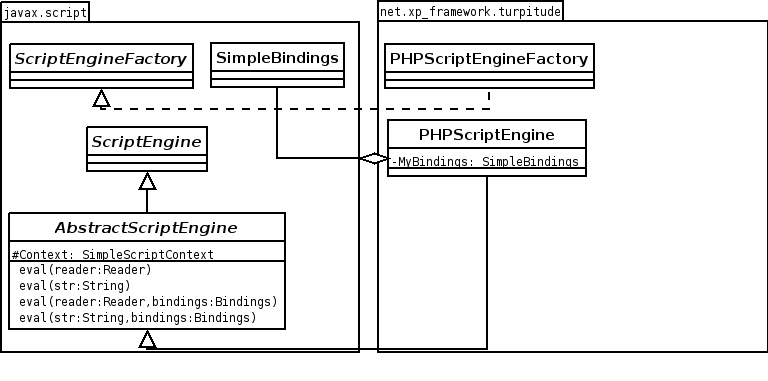
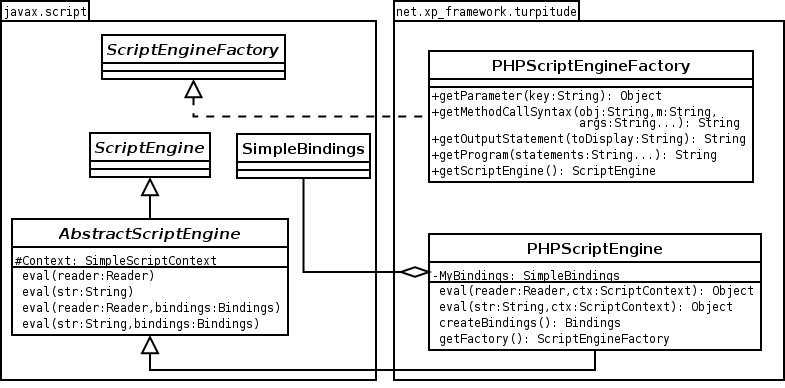
-- minor changes
git-svn-id: svn+ssh://svn.xp-framework.net/home/svn/xpforge/trunk/experiments@7885 d2cacbed-c0f6-0310-851a-9dad52fc623a

Changed region(s): [[0.0, 0.0, 1.0, 1.0]]

diff --git a/people/bayer/thesis/chap1/chap1.tex b/people/bayer/thesis/chap1/chap1.tex
@@ -68,6 +68,9 @@ aus Java heraus anzusprechen.
 Um PHP in anderen Umgebungen einzubetten bietet es dem Benutzer die M"oglichkeit als dynamisch ladbare
 Bilbliothek (.dll unter Windows, .so unter unixoiden Betriebssytemen) kompiliert zu werden, Java wiederum
 erlaubt das Einbinden solcher Bibliotheken zur Laufzeit mittels des JNI (siehe \ref{sec:intro:stand:JNI}).
+Um auf den PHP-Interpreter derart zugreiffen zu k"onnen muss eine sogenannte \emph{SAPI} implementiert
+werden. SAPI steht in diesem Kontext f"ur "'Server Application Programming Interface"' und ist ein PHP-interner
+Begriff. 
 Der naive Ansatz PHP innerhalb von Java auszuf"uhren w"are nun das simple Einbinden dieser Bibliothek und
 der Zugriff auf Selbige "uber JNI gewesen. Hierzu w"are es aber n"otig gewesen selbst eine Schnittstelle 
 zu entwickeln die diesen Zugriff formalisiert, allerdings existierten schon zwei unabh"ngig voneinander entwickelte
@@ -263,6 +266,7 @@ nativen Code "ubersetzte Programm mittels JNI anspricht. TODO: Arschlochsatz
 Um allerdings JSR 223 "uberhaupt nutzen zu k"onnen m"ussen die Klassen aus javax.script, vor allem der ScriptEngineManager, 
 im Java-Classpath liegen. Hierzu kann entweder eine Java-Runtime der Version 6, oder aber eine eigene Implementation dieser
 Klassen genutzt werden.
+Die im folgenden beschriebene JSR 223 Implementation tr"agt den Namen "'Turpitude"'.
 
 \subsection{Java}
 \label{sec:chap1:design:java}
@@ -277,7 +281,11 @@ Die ScriptEngineFactory-Implementation hei\ss t \emph{PHPScriptEngineFactory} un
 \emph{ScriptEngineFactory} aus \emph{javax.script}. Im Gegensatz dazu implementiert die Klasse \emph{PHPScriptEngine} nicht
 direkt das Interface \emph{ScriptEngine}, sondern erbt von der abstrakten Klasse \emph{AbstractScriptEngine}, welche f"ur
 viele Varianten der \emph{eval()}-Methode schon eine Realisierung, sowie mit der Klasse \emph{SimpleScriptContext} schon einen 
-\emph{ScriptContext} mitbringt. Die Abbildung \ref{fig:jsr223impl} zeigt die beteiligten Klassen und ihre Abh"anigkeiten untereinander.
+\emph{ScriptContext} mitbringt. Um den "ubergebenen Scriptcode tats"achlich auszu"fuhren muss dieser an den mittels der Java-Methode
+\emph{System.loadLibary()} geladenen nativen Teil der Implementation weitergegeben werden. Die Kommunikation mit diesem
+nativen Teil findet mittels der JNI-Methoden TODO: Methoden auflisten.
+Die Abbildung \ref{fig:jsr223impl} zeigt die beteiligten Klassen und ihre Abh"anigkeiten untereinander,
+zusammen mit einigen wichtigen Methoden und Attributen. 
 
 \begin{figure}[h]
 \includegraphics[width=\textwidth]{chap1/img/turpitude.png}
@@ -285,9 +293,18 @@ viele Varianten der \emph{eval()}-Methode schon eine Realisierung, sowie mit der
 \label{fig:jsr223impl}
 \end{figure}
 
-
 \subsection{Native}
 \label{sec:chap1:design:native}
+
+Der native Teil der Implementation teilt sich wiederum auf in JNI-Methoden, f"ur welche die Headerdateien automatisch aus
+dem Java-Quelltext der PHPScriptEngine generiert werden k"onnen, und in die Implementation einer SAPI. Hierzu muss im
+Wesentlichen ein sogenanntes \emph{sapi\_module\_struct} angelegt und bef"ullt werden, welches neben einigen Strings
+haupts"achlich Funktionspointer auf R"uckruffunktionen enth"alt, welche vom PHP-Interpreter aufgerufen werden. Da es
+kaum m"oglich ist dieses Konstrukt sinnvoll in eine objektorientierte Architektur einzuf"ugen, wird auf eine solche
+vollst"andig verzichtet. Das sapi\_module\_struct und die dazugeh"origen Funktionen werden in traditioneller,
+prozeduraler Art und Weise implementiert.
+TODO: JNI Methoden
+TODO: sapi methoden
 
 
 \section{Implementation}

diff --git a/people/bayer/turpitude/src/java/net/xp_framework/turpitude/PHPScriptEngine.java b/people/bayer/turpitude/src/java/net/xp_framework/turpitude/PHPScriptEngine.java
@@ -79,9 +79,20 @@ public class PHPScriptEngine extends AbstractScriptEngine {
     /**
      * sets the factory
      */
-    public void setScriptEngineFactory(ScriptEngineFactory fac) {
+    void setScriptEngineFactory(ScriptEngineFactory fac) {
         MyFactory = fac;
     }
 
+    /**
+     * Starts up a the PHP engine. Called from static initializer
+     *
+     */
+    protected static native void startUp();
+
+    /**
+     * Shuts down the PHP engine. Called from finalizer.
+     *
+     */
+    protected static native void shutDown();
 
 }

diff --git a/people/bayer/turpitude/src/java/net/xp_framework/turpitude/PHPScriptEngineFactory.java b/people/bayer/turpitude/src/java/net/xp_framework/turpitude/PHPScriptEngineFactory.java
@@ -55,6 +55,7 @@ public class PHPScriptEngineFactory implements ScriptEngineFactory {
      */
     public List<String> getNames() {
         List<String> names = new ArrayList<String>();
+        names.add("turpitude");
         names.add("PHP5");
         names.add("PHP");
         return names;
